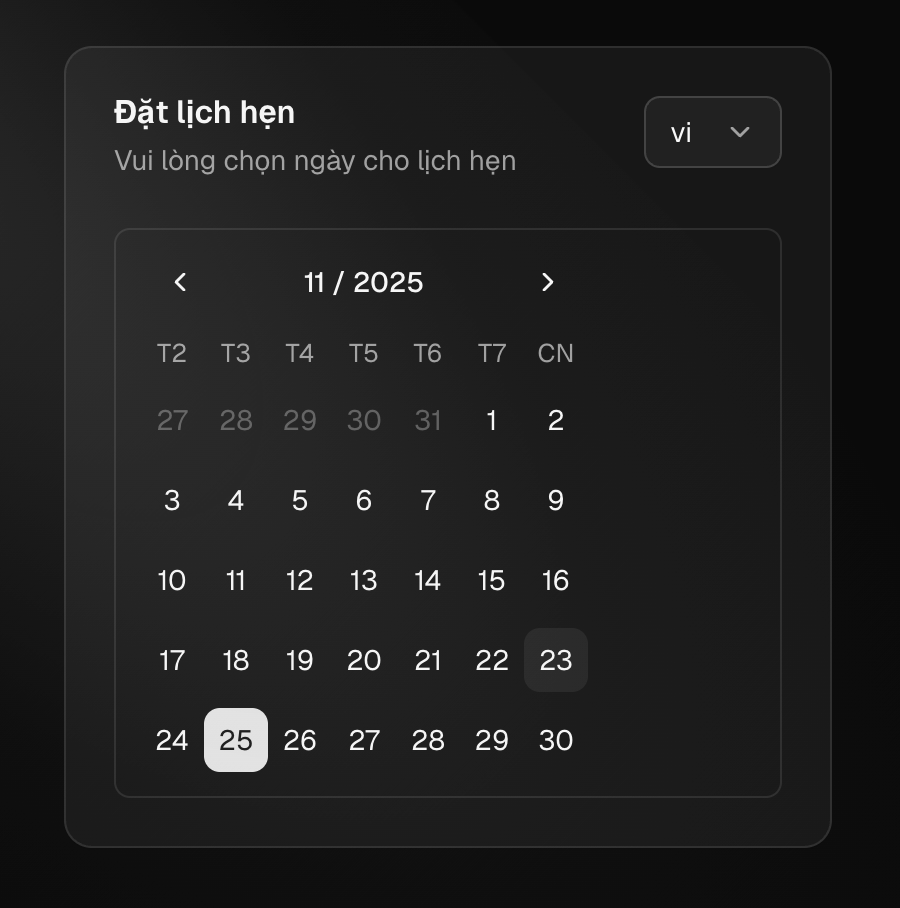
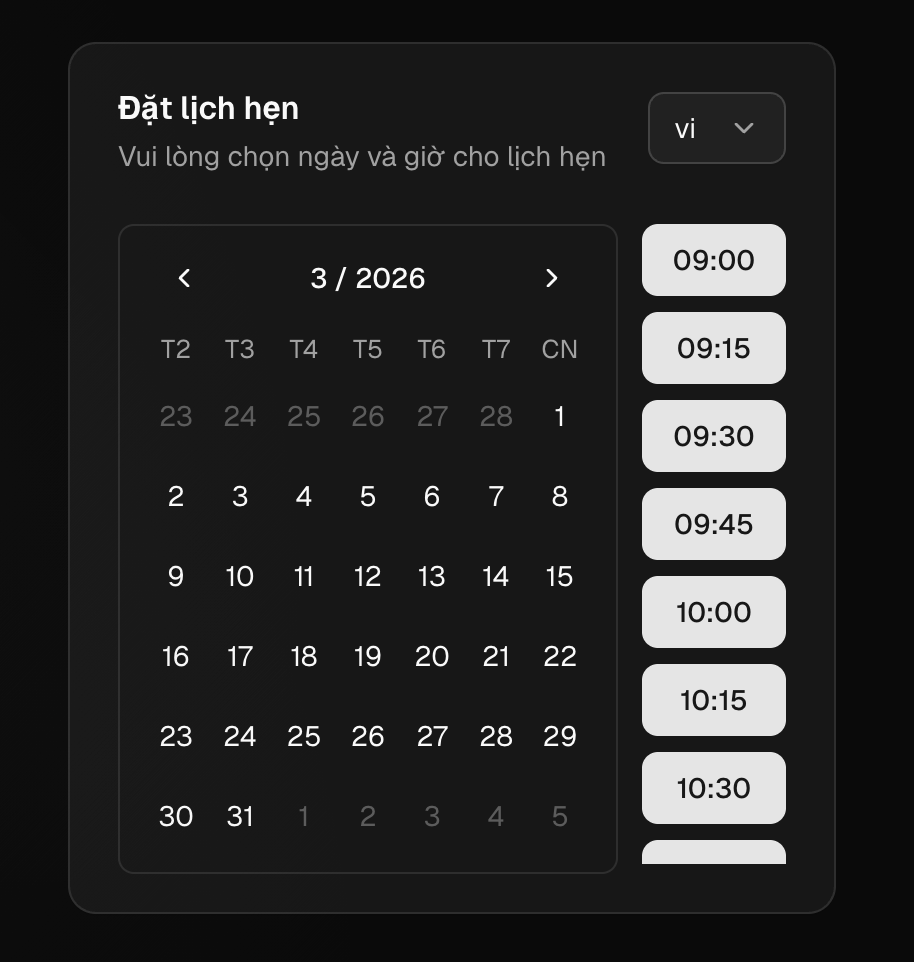
fix(calendar): address all requested PR changes

diff --git a/apps/app/src/app/pages/(blocks-preview)/blocks-preview/calendar-localized/index.page.ts b/apps/app/src/app/pages/(blocks-preview)/blocks-preview/calendar-localized/index.page.ts
@@ -9,6 +9,7 @@ import {
 } from '@angular/core';
 import { BrnCalendarI18nService, injectBrnCalendarI18n, provideBrnCalendarI18n } from '@spartan-ng/brain/calendar';
 import { BrnSelectImports } from '@spartan-ng/brain/select';
+import { HlmButtonImports } from '@spartan-ng/helm/button';
 import { HlmCalendar } from '@spartan-ng/helm/calendar';
 import { HlmCardImports } from '@spartan-ng/helm/card';
 import { HlmSelectImports } from '@spartan-ng/helm/select';
@@ -16,7 +17,7 @@ import { HlmSelectImports } from '@spartan-ng/helm/select';
 const localizedStrings = {
 	vi: {
 		title: 'Đặt lịch hẹn',
-		description: 'Vui lòng chọn ngày cho lịch hẹn',
+		description: 'Vui lòng chọn ngày và giờ cho lịch hẹn',
 	},
 
 	de: {
@@ -120,6 +121,14 @@ const CALENDAR_I18N = {
 	},
 } as const;
 
+const timeSlots: string[] = Array.from({ length: 37 }, (_, i) => {
+	const totalMinutes = i * 15;
+	const hour = Math.floor(totalMinutes / 60) + 9;
+	const minute = totalMinutes % 60;
+
+	return `${hour.toString().padStart(2, '0')}:${minute.toString().padStart(2, '0')}`;
+});
+
 @Injectable({ providedIn: 'root' })
 export class LanguageService {
 	public language = signal<'en' | 'vi' | 'de'>('vi');
@@ -131,7 +140,7 @@ export class LanguageService {
 
 @Component({
 	selector: 'spartan-calendar-localized',
-	imports: [HlmCalendar, BrnSelectImports, HlmSelectImports, HlmCardImports],
+	imports: [HlmCalendar, BrnSelectImports, HlmSelectImports, HlmCardImports, HlmButtonImports],
 	providers: [provideBrnCalendarI18n(CALENDAR_I18N.vi)],
 	encapsulation: ViewEncapsulation.None,
 	changeDetection: ChangeDetectionStrategy.OnPush,
@@ -146,7 +155,7 @@ export class LanguageService {
 				<p hlmCardDescription>{{ _strings[lang].description }}</p>
 
 				<div hlmCardAction>
-					<brn-select class="inline-block" [value]="lang" (valueChange)="setLang($event)">
+					<brn-select [value]="lang" (valueChange)="setLang($event)">
 						<hlm-select-trigger>
 							<hlm-select-value />
 						</hlm-select-trigger>
@@ -160,13 +169,24 @@ export class LanguageService {
 				</div>
 			</div>
 
-			<div hlmCardContent>
-				<hlm-calendar />
+			<div hlmCardContent class="flex flex-row gap-3 px-6">
+				<div class="h-80">
+					<hlm-calendar class="h-full" />
+				</div>
+
+				<div class="no-scrollbar flex h-80 scroll-pb-6 flex-col gap-2 overflow-y-auto">
+					@for (time of _timeSlots; track time) {
+						<button hlmBtn class="w-full shadow-none">
+							{{ time }}
+						</button>
+					}
+				</div>
 			</div>
 		</section>
 	`,
 })
 export default class CalendarLocalizedPage implements OnInit {
+	protected readonly _timeSlots = timeSlots;
 	protected readonly _languageService = inject(LanguageService);
 	protected readonly _strings = localizedStrings;
 	protected readonly _supportedLanguages = ['vi', 'de', 'en'] as const;
@@ -192,6 +212,6 @@ export default class CalendarLocalizedPage implements OnInit {
 	}
 }
 
-function isLang(value: any): value is 'vi' | 'en' | 'de' {
+function isLang(value: unknown): value is 'vi' | 'en' | 'de' {
 	return value === 'vi' || value === 'en' || value === 'de';
 }

diff --git a/apps/app/src/app/pages/(blocks)/blocks.page.ts b/apps/app/src/app/pages/(blocks)/blocks.page.ts
@@ -35,7 +35,7 @@ export const routeMeta: RouteMeta = {
 			<hlm-tabs [tab]="_activeTab()" class="w-full pb-5">
 				<hlm-tabs-list
 					aria-label="Blocks Tabs"
-					class="bg-background dark:[&>a]:bg-background [&>a]:text-muted-foreground [&>a]:data-[state=active]:text-primary [&>a]:hover:text-primary dark:[&>a]:data-[state=active]:bg-background border-2 [&>a]:cursor-pointer [&>a]:data-[state=active]:shadow-none dark:[&>a]:data-[state=active]:border-none"
+					class="bg-background dark:[&>a]:bg-background [&>a]:text-muted-foreground [&>a]:data-[state=active]:text-primary [&>a]:hover:text-primary dark:[&>a]:data-[state=active]:bg-background [&>a]:cursor-pointer [&>a]:data-[state=active]:shadow-none dark:[&>a]:data-[state=active]:border-none"
 				>
 					<a hlmTabsTrigger="sidebar" routerLink="/blocks/sidebar">Sidebar</a>
 					<a hlmTabsTrigger="calendar" routerLink="/blocks/calendar">Calendar</a>

diff --git a/apps/app/src/app/pages/(blocks-preview)/blocks-preview/calendar-month-year-dropdown/index.page.ts b/apps/app/src/app/pages/(blocks-preview)/blocks-preview/calendar-month-year-dropdown/index.page.ts
@@ -10,13 +10,13 @@ import { HlmSelectImports } from '@spartan-ng/helm/select';
 	encapsulation: ViewEncapsulation.None,
 	changeDetection: ChangeDetectionStrategy.OnPush,
 	host: {
-		class: 'flex flex-col gap-4 pt-20 items-center',
+		class: 'flex flex-col gap-4 pt-20 w-max self-center',
 	},
 	styleUrl: '../../blocks-preview-default.css',
 	template: `
 		<hlm-calendar [captionLayout]="_captionLayout()" />
 
-		<brn-select class="inline-block" placeholder="Select an option" [(ngModel)]="_captionLayout">
+		<brn-select [(ngModel)]="_captionLayout">
 			<hlm-select-trigger class="w-full">
 				<hlm-select-value />
 			</hlm-select-trigger>
